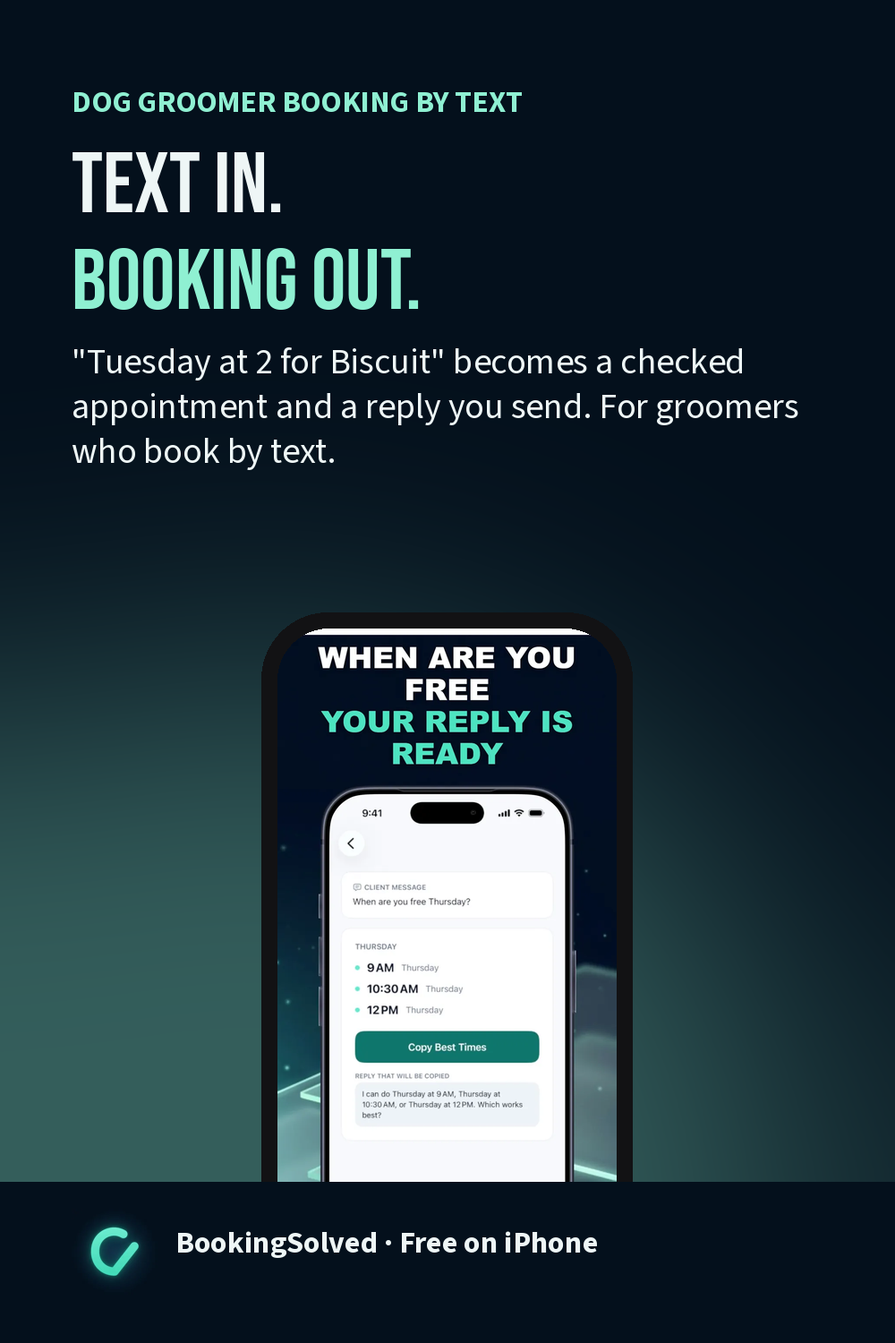
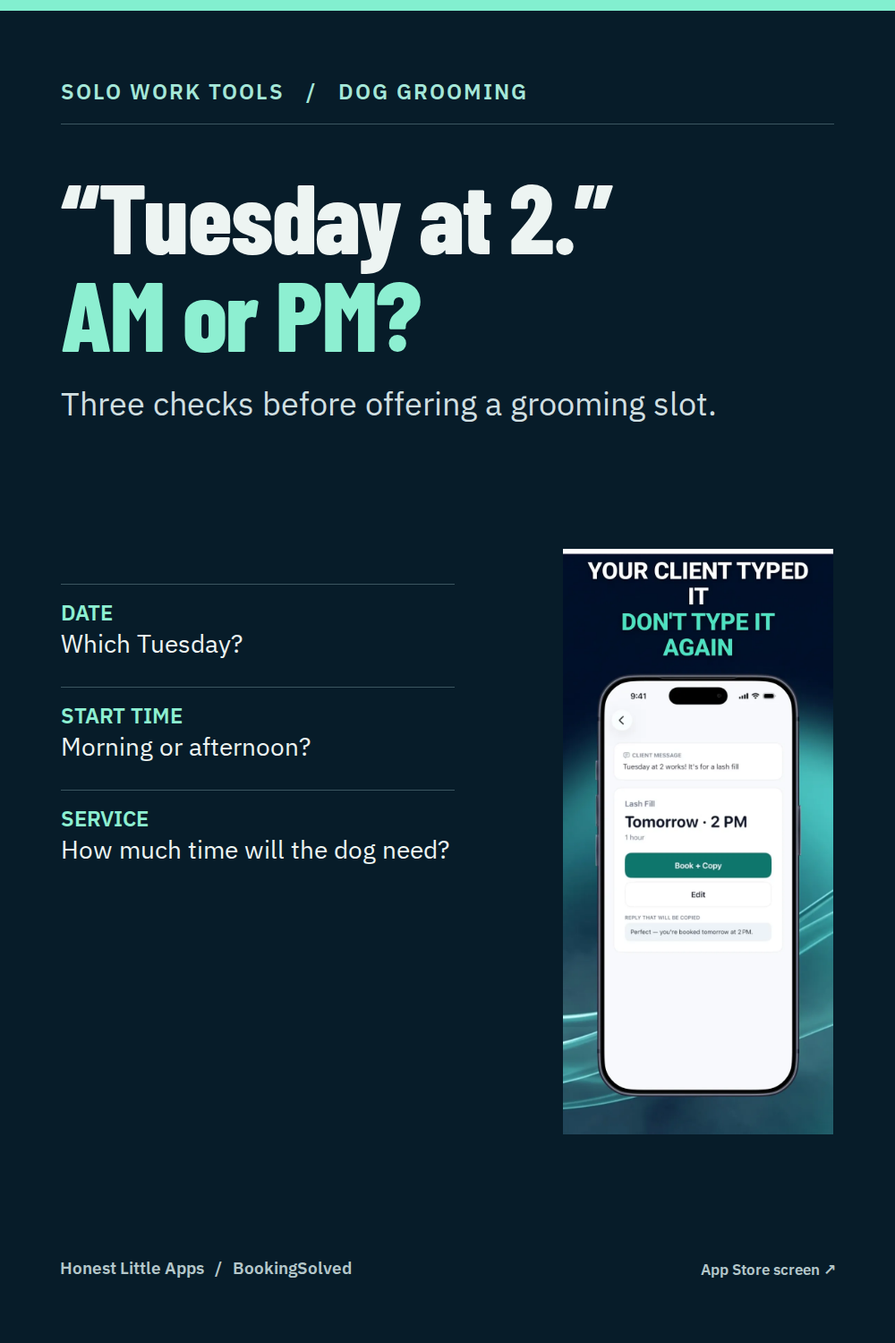
Clarify ambiguous grooming appointment texts before a calendar offer

diff --git a/src/bookingsolved/dog-groomer-booking-by-text/index.html b/src/bookingsolved/dog-groomer-booking-by-text/index.html
@@ -3,26 +3,27 @@
 <head>
 <meta charset="utf-8">
 <meta name="viewport" content="width=device-width,initial-scale=1">
-<title>Dog Groomer Booking by Text: 7 Messages, No Double-Bookings</title>
-<meta name="description" content="For the mobile dog groomer whose clients book by text and always will. A week of real-shaped messages, what each becomes, and a toy parser to try.">
+<title>Dog Grooming Booking Texts: Check 7 Appointment Requests</title>
+<meta name="description" content="Practice with seven dog grooming texts. Spot an unclear time, service or date and draft a follow-up before offering a calendar slot.">
 <link rel="canonical" href="https://udrwu9c0tjuedqy2.github.io/hla-work/bookingsolved/dog-groomer-booking-by-text/">
 <meta name="robots" content="index,follow,max-image-preview:large">
 <meta property="og:type" content="article">
-<meta property="og:title" content="Dog Groomer Booking by Text: 7 Messages, No Double-Bookings">
-<meta property="og:description" content="For the mobile dog groomer whose clients book by text and always will. A week of real-shaped messages, what each becomes, and a toy parser to try.">
+<meta property="og:title" content="Dog Grooming Booking Texts: Check 7 Appointment Requests">
+<meta property="og:description" content="Practice with seven dog grooming texts. Spot an unclear time, service or date and draft a follow-up before offering a calendar slot.">
 <meta property="og:url" content="https://udrwu9c0tjuedqy2.github.io/hla-work/bookingsolved/dog-groomer-booking-by-text/">
 <meta property="og:image" content="https://udrwu9c0tjuedqy2.github.io/hla-work/bookingsolved/dog-groomer-booking-by-text/og.png">
+<meta property="og:image:alt" content="A dog grooming text asks for Tuesday at 2. A follow-up asks AM or PM alongside an official BookingSolved screen.">
 <meta property="og:image:width" content="1200"><meta property="og:image:height" content="630">
 <meta property="og:site_name" content="Solo Work Tools">
 <meta name="twitter:card" content="summary_large_image">
-<meta name="twitter:title" content="Dog Groomer Booking by Text: 7 Messages, No Double-Bookings">
-<meta name="twitter:description" content="For the mobile dog groomer whose clients book by text and always will. A week of real-shaped messages, what each becomes, and a toy parser to try.">
+<meta name="twitter:title" content="Dog Grooming Booking Texts: Check 7 Appointment Requests">
+<meta name="twitter:description" content="Practice with seven dog grooming texts. Spot an unclear time, service or date and draft a follow-up before offering a calendar slot.">
 <meta name="twitter:image" content="https://udrwu9c0tjuedqy2.github.io/hla-work/bookingsolved/dog-groomer-booking-by-text/og.png">
 <link rel="icon" href="/favicon.svg" type="image/svg+xml">
 <link rel="alternate" type="application/atom+xml" title="Solo Work Tools" href="/feed.xml">
-<script type="application/ld+json">{"@context": "https://schema.org", "@type": "BreadcrumbList", "itemListElement": [{"@type": "ListItem", "position": 1, "name": "Solo Work Tools", "item": "https://udrwu9c0tjuedqy2.github.io/hla-work/"}, {"@type": "ListItem", "position": 2, "name": "BookingSolved: Client Booking", "item": "https://udrwu9c0tjuedqy2.github.io/hla-work/bookingsolved/"}, {"@type": "ListItem", "position": 3, "name": "Dog groomer booking by text, without a portal", "item": "https://udrwu9c0tjuedqy2.github.io/hla-work/bookingsolved/dog-groomer-booking-by-text/"}]}</script>
-<script type="application/ld+json">{"@context": "https://schema.org", "@type": "FAQPage", "mainEntity": [{"@type": "Question", "name": "Do I need a booking portal for a dog grooming business?", "acceptedAnswer": {"@type": "Answer", "text": "Not if your clients text you and keep texting you, which is most of them. A portal is one more place a booking can live. BookingSolved takes the other route: the client keeps texting, you keep Apple Calendar, and the app turns the message into a checked appointment and a reply you send yourself."}}, {"@type": "Question", "name": "Does it read my messages?", "acceptedAnswer": {"@type": "Answer", "text": "Only what you hand it. Paste the text, choose a screenshot, or use the Share Sheet; the listing says it never reads conversations in the background and never contacts clients. There is no connected inbox."}}, {"@type": "Question", "name": "What about repeat dogs and \"the usual\"?", "acceptedAnswer": {"@type": "Answer", "text": "Service presets hold the name, duration and prep or travel buffer for each service; there are starter lists for groomers among others, all editable. \"The usual\" with no service named is flagged for you to pick, because guessing a two-hour full groom when they meant a bath is how afternoons collapse."}}, {"@type": "Question", "name": "Can it handle two dogs in one slot?", "acceptedAnswer": {"@type": "Answer", "text": "It books the slot and the service you choose. If two dogs mean a longer slot, set a service preset for that (Two-dog groom, 2.5 h) rather than hoping the buffer absorbs it."}}, {"@type": "Question", "name": "Does it take deposits or payments?", "acceptedAnswer": {"@type": "Answer", "text": "No. No prices are stored and no money moves. If you take deposits, that stays wherever you take them now."}}, {"@type": "Question", "name": "Is it free?", "acceptedAnswer": {"@type": "Answer", "text": "BookingSolved is free to download. We describe only what the App Store listing and screenshots show; read the listing for anything paid before relying on this page."}}]}</script>
-<script type="application/ld+json">{"@context": "https://schema.org", "@type": "SoftwareApplication", "name": "BookingSolved: Client Booking", "operatingSystem": "iOS", "applicationCategory": "BusinessApplication", "offers": {"@type": "Offer", "price": "0", "priceCurrency": "USD"}, "downloadUrl": "https://apps.apple.com/app/id6800187784", "url": "https://udrwu9c0tjuedqy2.github.io/hla-work/bookingsolved/", "image": "https://udrwu9c0tjuedqy2.github.io/hla-work/assets/bookingsolved/icon-512.webp", "publisher": {"@type": "Organization", "name": "Honest Little Apps"}}</script>
+<script type="application/ld+json">{"@context": "https://schema.org", "@type": "BreadcrumbList", "itemListElement": [{"@type": "ListItem", "position": 1, "name": "Solo Work Tools", "item": "https://udrwu9c0tjuedqy2.github.io/hla-work/"}, {"@type": "ListItem", "position": 2, "name": "Dog grooming booking texts", "item": "https://udrwu9c0tjuedqy2.github.io/hla-work/bookingsolved/dog-groomer-booking-by-text/"}]}</script>
+<script type="application/ld+json">{"@context": "https://schema.org", "@type": "FAQPage", "mainEntity": [{"@type": "Question", "name": "Do I need a booking portal for a dog grooming business?", "acceptedAnswer": {"@type": "Answer", "text": "A solo groomer can keep taking requests by text. BookingSolved prepares a calendar proposal and a reply the groomer reviews and sends."}}, {"@type": "Question", "name": "Does BookingSolved read my messages?", "acceptedAnswer": {"@type": "Answer", "text": "It processes only a request you paste, a screenshot you choose, or something you share with it. You send each client reply yourself."}}, {"@type": "Question", "name": "How should I handle “the usual”?", "acceptedAnswer": {"@type": "Answer", "text": "Ask which service the client wants. BookingSolved lets a groomer set the service name, duration, and prep or travel buffer."}}, {"@type": "Question", "name": "Can two dogs fit in one slot?", "acceptedAnswer": {"@type": "Answer", "text": "Add the service time for both dogs and the cleanup or travel time. Check the whole window before offering the appointment."}}, {"@type": "Question", "name": "Does BookingSolved take deposits?", "acceptedAnswer": {"@type": "Answer", "text": "Payments remain with your existing service. BookingSolved handles the calendar request and reply."}}, {"@type": "Question", "name": "What is free?", "acceptedAnswer": {"@type": "Answer", "text": "The first three completed actions are free. BookingSolved Pro unlocks unlimited bookings, reschedules and cancellations. Undo is always free."}}]}</script>
+<script type="application/ld+json">{"@context": "https://schema.org", "@type": "SoftwareApplication", "name": "BookingSolved: Client Booking", "operatingSystem": "iOS", "applicationCategory": "BusinessApplication", "offers": {"@type": "Offer", "price": "0", "priceCurrency": "USD"}, "downloadUrl": "https://apps.apple.com/app/id6800187784", "url": "https://apps.apple.com/us/app/bookingsolved-client-booking/id6800187784", "image": "https://udrwu9c0tjuedqy2.github.io/hla-work/assets/bookingsolved/icon-512.webp", "publisher": {"@type": "Organization", "name": "Honest Little Apps"}}</script>
 <link rel="preload" href="/assets/fonts/bebas-neue-latin-400-normal.woff2" as="font" type="font/woff2" crossorigin>
 <meta name="apple-itunes-app" content="app-id=6800187784">
 <style>
@@ -45,12 +46,12 @@ h2{font-size:clamp(1.9rem,7vw,2.8rem);margin-top:1.4em}h3{font-size:1.5rem}
 .upd{font-size:.85rem;color:var(--mute)}.hero .upd{color:#d5e6e6}
 /* duotone shots */
 .shots{display:grid;grid-template-columns:1fr 1fr;gap:12px;margin:14px 0}@media(min-width:620px){.shots{grid-template-columns:repeat(3,1fr)}}
-.shots figure{margin:0;overflow:hidden}.shots .duo{border-radius:16px;background:var(--mint);overflow:hidden}.shots img{width:100%;height:auto;display:block;filter:grayscale(1) contrast(1.1);mix-blend-mode:multiply;opacity:.95}.shots figcaption{font-size:.85rem;color:var(--mute);margin-top:6px}
+.shots figure{margin:0;overflow:hidden}.shots .duo{border-radius:16px;background:var(--mint);overflow:hidden}.shots img{width:100%;height:auto;display:block;object-fit:contain}.shots figcaption{font-size:.85rem;color:var(--mute);margin-top:6px}
 /* thread */
 .thread{display:grid;gap:10px;margin:12px 0}
 .bub{display:block;width:100%;text-align:left;background:#f6f3ea;color:#1a2a33;border:0;border-radius:18px 18px 18px 6px;padding:10px 14px;font:inherit;cursor:pointer}.bub .who{display:block;font-size:.75rem;color:#6b7a80;font-weight:600}.bub .txt{display:block;font-size:1.02rem}.bub .hint{display:block;font-size:.75rem;color:var(--teal);margin-top:4px;font-weight:600}
 .bub[aria-expanded=true]{outline:2px solid var(--mint)}
-.rev{background:var(--card);border:1px solid var(--line);border-radius:18px 18px 6px 18px;padding:10px 14px;margin-left:12%}.rev p{margin:0;font-size:.98rem}.rev:before{content:"BookingSolved would prepare";display:block;font-size:.72rem;color:var(--mint);margin-bottom:2px}
+.rev{background:var(--card);border:1px solid var(--line);border-radius:18px 18px 6px 18px;padding:10px 14px;margin-left:12%}.rev p{margin:0;font-size:.98rem}.rev:before{content:"What to check";display:block;font-size:.72rem;color:var(--mint);margin-bottom:2px}
 /* demo */
 .demo{background:var(--card);border:1px solid var(--line);border-radius:18px;padding:16px;margin:14px 0}.demo h3{margin-bottom:6px}.demo p{margin:0 0 10px;font-size:.95rem;color:var(--mute)}
 .demo input{width:100%;background:#061520;color:var(--ink);border:1px solid var(--line);border-radius:12px;padding:12px;font:inherit;font-size:1rem}
@@ -61,6 +62,7 @@ h2{font-size:clamp(1.9rem,7vw,2.8rem);margin-top:1.4em}h3{font-size:1.5rem}
 details{border-top:1px solid var(--line);padding:10px 0}summary{cursor:pointer;font-weight:600;font-size:1.05rem}details p{margin:8px 0 0;color:#cfe0e0}
 .cta{display:inline-block;background:var(--mint);color:var(--navy);text-decoration:none;font:400 1.4rem 'Bebas Neue',Impact,sans-serif;letter-spacing:.04em;padding:12px 24px;border-radius:999px;margin:8px 0}
 .end{background:var(--card);border-radius:18px;padding:22px 18px;margin:28px 0 18px;text-align:center}.end .hla-badge{display:inline-block;margin-top:8px}
+.demo label{display:block;font-weight:600;margin:10px 0 4px}.samples{display:flex;flex-wrap:wrap;gap:8px;margin:8px 0}.samples button{background:#163645;color:var(--ink);border:1px solid #527786;border-radius:8px;padding:9px 11px;min-height:44px;font:inherit;font-size:.93rem;cursor:pointer}.demo h2{margin:.2em 0 .5em}.store-text{font-size:1rem;font-weight:600;text-decoration:underline;text-underline-offset:.18em;display:inline-block;padding:10px 0}.badge-row{align-items:baseline}.badge-row small{display:block;width:100%}.parsed b{overflow-wrap:anywhere}.demo .draft{color:var(--ink);min-height:3em}.case-label{font-weight:600;color:var(--mint)}.demo h3{margin-top:1em}.demo :focus-visible{outline:3px solid var(--mint);outline-offset:3px}
 .limits{font-size:.95rem;color:var(--mute)}
 </style>
 </head>
@@ -70,73 +72,135 @@ details{border-top:1px solid var(--line);padding:10px 0}summary{cursor:pointer;f
 <svg class="net" viewBox="0 0 400 300" preserveAspectRatio="none" aria-hidden="true"><g stroke="#8ff0d2" stroke-width=".7" fill="none"><path d="M20 40 L140 90 L260 30 L380 110 M140 90 L90 220 L260 30 M260 30 L330 240 L90 220"/></g><g fill="#8ff0d2"><circle cx="20" cy="40" r="2"/><circle cx="140" cy="90" r="2.5"/><circle cx="260" cy="30" r="2"/><circle cx="380" cy="110" r="2"/><circle cx="90" cy="220" r="2.5"/><circle cx="330" cy="240" r="2"/></g></svg>
 <nav class="top"><a href="/">Solo Work Tools</a><a href="/about/">About</a></nav>
 <p class="upd">Updated November 2026 · For mobile and home groomers who book by text</p>
-<h1>7 messages.<span class="l2">Zero double-bookings.</span></h1>
-<p class="sub">Dog groomer booking by text is how it is and how it will stay. This is for the groomer who does not want a portal, just a calendar that gets checked before every reply.</p>
-<div class="badge-row"><a class="hla-badge" href="https://apps.apple.com/app/id6800187784?ct=work-dog-groomer-booking-by-te&mt=8" rel="noopener" aria-label="Download on the App Store"><img src="https://toolbox.marketingtools.apple.com/api/v2/badges/download-on-the-app-store/white/en-us?size=250x83&releaseDate=1276560000" alt="Download on the App Store" width="150" height="50" loading="eager" decoding="async"></a><small>BookingSolved · Free on iPhone</small></div>
+<h1>“Tuesday at 2.”<span class="l2">AM or PM?</span></h1>
+<p class="sub">A client texts about a groom. Practice spotting what to clarify before offering a slot, then try seven fictional client requests.</p>
+<div class="badge-row"><a class="cta" href="#request-lab">Check a sample text</a><a class="store-text" href="https://apps.apple.com/app/id6800187784?ct=work-dog-groomer-booking-by-te&mt=8" rel="noopener">BookingSolved on the App Store ↗</a><small>BookingSolved · First 3 completed actions free</small></div>
 </header>
+<section aria-labelledby="request-lab" class="demo">
+<h2 id="request-lab">Check a grooming request</h2>
+<p>Try a fictional text. The highlighter looks for familiar date, time and service wording. Review its clues and use the follow-up as a starting point. This browser exercise has no calendar connection and sends nothing.</p>
+<div class="samples" aria-label="Example messages"><button type="button" data-example="Can Biscuit come Tuesday at 2 for a full groom?">Bare time</button><button type="button" data-example="Could we do next Friday at 2 pm for a bath?">Which Friday?</button><button type="button" data-example="Can we move Mochi’s bath an hour later?">Move a visit</button></div>
+<label for="msg">Sample booking text</label>
+<input id="msg" type="text" value="Can Biscuit come Tuesday at 2 for a full groom?" maxlength="500" autocomplete="off" spellcheck="false">
+<div class="parsed"><div><small>Date wording</small><b id="pd">—</b></div><div><small>Time wording</small><b id="pt">—</b></div><div><small>Request wording</small><b id="pn">—</b></div><div><small>Service mentioned</small><b id="ps">—</b></div></div>
+<h3>Suggested follow-up</h3><div class="draft" id="pdraft" aria-live="polite"></div>
+<noscript><p>For “Tuesday at 2,” first ask which calendar date and whether the client means AM or PM. Check the service length, cleanup time and calendar before offering a slot.</p></noscript>
+</section>
 
 <h2>The real screens</h2>
 <div class="shots">
-<figure><div class="duo"><img class="" src="/assets/bookingsolved/screen-1-390.webp" srcset="/assets/bookingsolved/screen-1-390.webp 390w, /assets/bookingsolved/screen-1-780.webp 780w" sizes="(max-width:480px) 70vw, 300px" width="390" height="844" alt="BookingSolved turning a client message into a booking with Book and Copy" fetchpriority="high" decoding="async"></div><figcaption>The client typed it. You do not type it again.</figcaption></figure>
-<figure><div class="duo"><img class="" src="/assets/bookingsolved/screen-2-390.webp" srcset="/assets/bookingsolved/screen-2-390.webp 390w, /assets/bookingsolved/screen-2-780.webp 780w" sizes="(max-width:480px) 70vw, 300px" width="390" height="844" alt="BookingSolved open times for Thursday with Copy Best Times" fetchpriority="high" decoding="async"></div><figcaption>"When are you free?" gets three real slots.</figcaption></figure>
-<figure><div class="duo"><img class="" src="/assets/bookingsolved/screen-4-390.webp" srcset="/assets/bookingsolved/screen-4-390.webp 390w, /assets/bookingsolved/screen-4-780.webp 780w" sizes="(max-width:480px) 70vw, 300px" width="390" height="844" alt="BookingSolved booked confirmation with Undo" fetchpriority="high" decoding="async"></div><figcaption>Booked in Apple Calendar. Undo in one tap.</figcaption></figure>
+<figure><div class="duo"><img class="" src="/assets/bookingsolved/screen-1-390.webp" srcset="/assets/bookingsolved/screen-1-390.webp 390w, /assets/bookingsolved/screen-1-780.webp 780w" sizes="(max-width:480px) 70vw, 300px" width="390" height="844" alt="BookingSolved turning a client message into a booking with Book and Copy" fetchpriority="high" decoding="async"></div><figcaption>A shared request becomes a proposal to review.</figcaption></figure>
+<figure><div class="duo"><img class="" src="/assets/bookingsolved/screen-2-390.webp" srcset="/assets/bookingsolved/screen-2-390.webp 390w, /assets/bookingsolved/screen-2-780.webp 780w" sizes="(max-width:480px) 70vw, 300px" width="390" height="844" alt="BookingSolved open times for Thursday with Copy Best Times" fetchpriority="high" decoding="async"></div><figcaption>Open-time suggestions use Apple Calendar and the service duration.</figcaption></figure>
+<figure><div class="duo"><img class="" src="/assets/bookingsolved/screen-4-390.webp" srcset="/assets/bookingsolved/screen-4-390.webp 390w, /assets/bookingsolved/screen-4-780.webp 780w" sizes="(max-width:480px) 70vw, 300px" width="390" height="844" alt="BookingSolved booked confirmation with Undo" fetchpriority="high" decoding="async"></div><figcaption>Review the calendar change and the Undo option.</figcaption></figure>
 </div>
 
 <h2>Honest limits</h2>
-<p class="limits">BookingSolved is a one-person tool built on Apple Calendar; it does not do Google Calendar, a team schedule, deposits, or a public booking link. It cannot read "the usual" without you, and it will not guess "next Friday". It never sends a message; every reply is yours to edit and send from the app the client used. Apple's guide to <a href="https://support.apple.com/guide/iphone/iph3d110f84/ios" rel="noopener">creating and editing events in Calendar</a> is where the appointments end up, and the <a href="https://support.apple.com/guide/iphone/welcome/ios" rel="noopener">iPhone User Guide</a> covers the Share Sheet the app uses to receive a message. We make the app, so read the listing yourself.</p>
+<p class="limits">BookingSolved uses requests the groomer chooses to share and checks Apple Calendar before proposing a change. The groomer reviews the event and sends any reply. Service durations and travel or cleanup buffers can be set in the app. <a href="https://support.apple.com/guide/iphone/iph3d110f84/ios" rel="noopener">Apple’s guide to creating and editing calendar events</a> shows where the approved appointment appears.</p>
 
 <h2>Questions groomers ask</h2>
-<details><summary>Do I need a booking portal for a dog grooming business?</summary><p>Not if your clients text you and keep texting you, which is most of them. A portal is one more place a booking can live. BookingSolved takes the other route: the client keeps texting, you keep Apple Calendar, and the app turns the message into a checked appointment and a reply you send yourself.</p></details><details><summary>Does it read my messages?</summary><p>Only what you hand it. Paste the text, choose a screenshot, or use the Share Sheet; the listing says it never reads conversations in the background and never contacts clients. There is no connected inbox.</p></details><details><summary>What about repeat dogs and &quot;the usual&quot;?</summary><p>Service presets hold the name, duration and prep or travel buffer for each service; there are starter lists for groomers among others, all editable. &quot;The usual&quot; with no service named is flagged for you to pick, because guessing a two-hour full groom when they meant a bath is how afternoons collapse.</p></details><details><summary>Can it handle two dogs in one slot?</summary><p>It books the slot and the service you choose. If two dogs mean a longer slot, set a service preset for that (Two-dog groom, 2.5 h) rather than hoping the buffer absorbs it.</p></details><details><summary>Does it take deposits or payments?</summary><p>No. No prices are stored and no money moves. If you take deposits, that stays wherever you take them now.</p></details><details><summary>Is it free?</summary><p>BookingSolved is free to download. We describe only what the App Store listing and screenshots show; read the listing for anything paid before relying on this page.</p></details>
+<details><summary>Do I need a booking portal for a dog grooming business?</summary><p>A solo groomer can keep taking requests by text. BookingSolved prepares a calendar proposal and a reply the groomer reviews and sends.</p></details><details><summary>Does BookingSolved read my messages?</summary><p>It processes only a request you paste, a screenshot you choose, or something you share with it. You send each client reply yourself.</p></details><details><summary>How should I handle “the usual”?</summary><p>Ask which service the client wants. BookingSolved lets a groomer set the service name, duration, and prep or travel buffer.</p></details><details><summary>Can two dogs fit in one slot?</summary><p>Add the service time for both dogs and the cleanup or travel time. Check the whole window before offering the appointment.</p></details><details><summary>Does BookingSolved take deposits?</summary><p>Payments remain with your existing service. BookingSolved handles the calendar request and reply.</p></details><details><summary>What is free?</summary><p>The first three completed actions are free. BookingSolved Pro unlocks unlimited bookings, reschedules and cancellations. Undo is always free.</p></details>
 
-<h2>A week of texts, tap each one</h2>
-<p class="limits">Composite messages from groomers we have talked with; the names and dogs are made up.</p>
-<div class="thread" id="thread"><div class="msg"><button type="button" class="bub" aria-expanded="false"><span class="who">Jen (Biscuit, cockapoo)</span><span class="txt">Hi! Can Biscuit come Tuesday at 2 for a full groom?</span><span class="hint">Tap: what it becomes</span></button><div class="rev" hidden><p>A booking proposal: Tuesday 2:00 pm, Full groom, your set duration and buffer, checked against Apple Calendar. If Tuesday 2 is free, the reply is ready: &quot;Tuesday at 2 works for Biscuit, see you then.&quot;</p></div></div><div class="msg"><button type="button" class="bub" aria-expanded="false"><span class="who">Mark (Bruno, lab)</span><span class="txt">When are you free next week for a bath and nails?</span><span class="hint">Tap: what it becomes</span></button><div class="rev" hidden><p>Open times: a few slots inside your business hours, around existing appointments, using the Bath &amp; nails duration and buffer. Copy the best three into the reply.</p></div></div><div class="msg"><button type="button" class="bub" aria-expanded="false"><span class="who">Priya (Mochi)</span><span class="txt">Can we move Mochi an hour later?</span><span class="hint">Tap: what it becomes</span></button><div class="rev" hidden><p>A reschedule: it finds Mochi&#x27;s existing appointment, shows a before-and-after preview, and moves it only when you approve. Undo checks nothing changed first.</p></div></div><div class="msg"><button type="button" class="bub" aria-expanded="false"><span class="who">New number</span><span class="txt">do u do cats</span><span class="hint">Tap: what it becomes</span></button><div class="rev" hidden><p>Flagged, not guessed. There is no date, time or service here. You answer this one yourself; the app only prepares what it can actually find.</p></div></div><div class="msg"><button type="button" class="bub" aria-expanded="false"><span class="who">Jen (Biscuit)</span><span class="txt">Actually could we do next Friday instead?</span><span class="hint">Tap: what it becomes</span></button><div class="rev" hidden><p>&quot;Next Friday&quot; is flagged as unclear rather than guessed; the app asks you which Friday. Then the reschedule preview, then your approval.</p></div></div><div class="msg"><button type="button" class="bub" aria-expanded="false"><span class="who">Sam (Daisy &amp; Dolly)</span><span class="txt">Both girls Thursday morning please, usual</span><span class="hint">Tap: what it becomes</span></button><div class="rev" hidden><p>Two dogs, one slot: the service preset handles duration; &quot;usual&quot; is flagged for you to confirm which service. The reply draft waits for your edit.</p></div></div><div class="msg"><button type="button" class="bub" aria-expanded="false"><span class="who">Mark (Bruno)</span><span class="txt">Sorry need to cancel Tuesday</span><span class="hint">Tap: what it becomes</span></button><div class="rev" hidden><p>A cancellation: shows the exact event before anything is removed. Nothing changes in Calendar until you tap approve, and the reply is yours to send.</p></div></div></div>
 
-<h2>Try the shape of it</h2>
-<div class="demo">
-<h3>Type a booking text</h3>
-<p>A toy version, in your browser, nothing sent anywhere. It finds a day, a time and a dog's name if there is one, and flags what is missing. The app does the real version against your calendar and your service presets.</p>
-<input id="msg" type="text" value="Can Biscuit come Tuesday at 2 for a full groom?" aria-label="Booking message">
-<div class="parsed"><div><small>Day</small><b id="pd">—</b></div><div><small>Time</small><b id="pt">—</b></div><div><small>Dog</small><b id="pn">—</b></div><div><small>Service</small><b id="ps">—</b></div></div>
-<div class="draft" id="pdraft"></div>
-</div>
+<h2>Seven grooming texts to practice with</h2>
+<p class="limits">These seven fictional examples illustrate the decisions a solo groomer might face.</p>
+<div class="thread" id="thread"><div class="msg"><button type="button" class="bub" aria-expanded="false"><span class="who">Jen (Biscuit, cockapoo)</span><span class="txt">Hi! Can Biscuit come Tuesday at 2 for a full groom?</span><span class="hint">Reveal the next step</span></button><div class="rev" hidden><p>The request mentions a Tuesday, 2 o’clock and a full groom. Ask which Tuesday and whether 2 means AM or PM. Once the client clarifies, check the calendar for the full service and buffer before offering the slot.</p></div></div><div class="msg"><button type="button" class="bub" aria-expanded="false"><span class="who">Mark (Bruno, lab)</span><span class="txt">When are you free next week for a bath and nails?</span><span class="hint">Reveal the next step</span></button><div class="rev" hidden><p>Open times: a few slots inside your business hours, around existing appointments, using the Bath &amp; nails duration and buffer. Copy the best three into the reply.</p></div></div><div class="msg"><button type="button" class="bub" aria-expanded="false"><span class="who">Priya (Mochi)</span><span class="txt">Can we move Mochi an hour later?</span><span class="hint">Reveal the next step</span></button><div class="rev" hidden><p>A reschedule: it finds Mochi&#x27;s existing appointment, shows a before-and-after preview, and moves it only when you approve. Undo checks nothing changed first.</p></div></div><div class="msg"><button type="button" class="bub" aria-expanded="false"><span class="who">New number</span><span class="txt">do u do cats</span><span class="hint">Reveal the next step</span></button><div class="rev" hidden><p>Flagged, not guessed. There is no date, time or service here. You answer this one yourself; the app only prepares what it can actually find.</p></div></div><div class="msg"><button type="button" class="bub" aria-expanded="false"><span class="who">Jen (Biscuit)</span><span class="txt">Actually could we do next Friday instead?</span><span class="hint">Reveal the next step</span></button><div class="rev" hidden><p>&quot;Next Friday&quot; is flagged as unclear rather than guessed; the app asks you which Friday. Then the reschedule preview, then your approval.</p></div></div><div class="msg"><button type="button" class="bub" aria-expanded="false"><span class="who">Sam (Daisy &amp; Dolly)</span><span class="txt">Both girls Thursday morning please, usual</span><span class="hint">Reveal the next step</span></button><div class="rev" hidden><p>Ask what each dog needs, the exact date and the start time. Use the combined service and cleanup time to check whether both dogs fit.</p></div></div><div class="msg"><button type="button" class="bub" aria-expanded="false"><span class="who">Mark (Bruno)</span><span class="txt">Sorry need to cancel Tuesday</span><span class="hint">Reveal the next step</span></button><div class="rev" hidden><p>A cancellation: shows the exact event before anything is removed. Nothing changes in Calendar until you tap approve, and the reply is yours to send.</p></div></div></div>
+
+
 
 <div class="strip">
 <div><h3>The notebook</h3><p>Every text copied into a diary at night. Works until the night you do not, and the Tuesday that has two cockapoos at 2.</p></div>
 <div><h3>The portal</h3><p>Clients book themselves. The regulars text anyway, so now there are two places a booking can live.</p></div>
-<div class="ours"><h3>Check before you reply</h3><p>Paste the text, see the proposal checked against Calendar, approve, copy the reply. Clients keep texting; you stop double-booking.</p></div>
+<div class="ours"><h3>Check before you reply</h3><p>Paste the text, see the proposal checked against Calendar, approve, copy the reply. Review the date, duration and availability before approving the change.</p></div>
 </div>
-<a class="cta" href="https://apps.apple.com/app/id6800187784?ct=work-dog-groomer-booking-by-te&mt=8" rel="noopener">Play free on iPhone</a>
+<a class="cta" href="https://apps.apple.com/app/id6800187784?ct=work-dog-groomer-booking-by-te&mt=8" rel="noopener">View BookingSolved on the App Store</a>
 
 <div class="end">
-<h2>Keep texting. Stop double-booking.</h2>
-<p>Free on iPhone. Apple Calendar stays yours.</p>
-<a class="hla-badge" href="https://apps.apple.com/app/id6800187784?ct=work-dog-groomer-booking-by-te&mt=8" rel="noopener" aria-label="Download on the App Store"><img src="https://toolbox.marketingtools.apple.com/api/v2/badges/download-on-the-app-store/white/en-us?size=250x83&releaseDate=1276560000" alt="Download on the App Store" width="150" height="50" loading="eager" decoding="async"></a>
+<h2>Bring a request to Apple Calendar</h2>
+<p>The first three completed actions are free. BookingSolved Pro unlocks unlimited bookings, reschedules and cancellations. Undo is always free.</p>
+<a class="store-text" href="https://apps.apple.com/app/id6800187784?ct=work-dog-groomer-booking-by-te&mt=8" rel="noopener">BookingSolved on the App Store ↗</a>
 </div>
 
+<section><h2>Field worksheet</h2><p><a href="./route-insert.html">Mobile grooming route insertion checker</a> — Check whether a new visit leaves enough driving and service time between existing bookings.</p></section>
 <!--HLA:RELATED:4-->
 </div>
-<footer class="hla-footer"><p><strong>Honest Little Apps</strong> makes small iPhone apps and writes these pages by hand. No cookies, no email capture. <a href="/about/">About</a> · <a href="/privacy/">Privacy</a> · <a href="/">Solo Work Tools</a></p><p>Apple, the Apple logo, iPhone and App Store are trademarks of Apple Inc. · © <!--HLA:YEAR--> Honest Little Apps</p></footer>
+<footer class="hla-footer"><p><strong>Honest Little Apps</strong> publishes BookingSolved and this practice guide. <a href="/about/">About</a> · <a href="/privacy/">Privacy</a> · <a href="/">Solo Work Tools</a></p><p>Apple, the Apple logo, iPhone and App Store are trademarks of Apple Inc. · © <!--HLA:YEAR--> Honest Little Apps</p></footer>
 <script>
-(function(){
-document.getElementById('thread').addEventListener('click',function(e){var b=e.target.closest('.bub');if(!b)return;var o=b.getAttribute('aria-expanded')==='true';b.setAttribute('aria-expanded',o?'false':'true');b.nextElementSibling.hidden=o;});
-var m=document.getElementById('msg'),pd=document.getElementById('pd'),pt=document.getElementById('pt'),pn=document.getElementById('pn'),ps=document.getElementById('ps'),dr=document.getElementById('pdraft');
-var DAYS=['monday','tuesday','wednesday','thursday','friday','saturday','sunday'],SV=['full groom','bath and nails','bath & nails','bath','nails','tidy','puppy groom','deshed','de-shed'];
-function parse(){var s=m.value,l=s.toLowerCase(),day=null,time=null,dog=null,svc=null,flags=[];
- var vague=/\b(next|sometime|soon|asap|whenever|usual)\b/.test(l);
- DAYS.forEach(function(d){if(l.indexOf(d)>-1||l.indexOf(d.slice(0,3)+' ')>-1)day=d.charAt(0).toUpperCase()+d.slice(1);});
- if(/\btomorrow\b/.test(l))day='Tomorrow';
- var t=l.match(/\b(at\s*)?(\d{1,2})(?::(\d{2}))?\s*(am|pm)?\b/);if(t&&(t[1]||t[4]||t[3])){time=t[2]+(t[3]?':'+t[3]:'')+(t[4]?' '+t[4]:(+t[2]<8?' pm':''));}
- var n=s.match(/\b(?:can|could|for|bring|book)\s+([A-Za-z][a-z]+)\b/i);var STOP=['come','we','you','my','the','a','an','our','tomorrow','both','next','this'];if(n&&DAYS.indexOf(n[1].toLowerCase())<0&&STOP.indexOf(n[1].toLowerCase())<0)dog=n[1].charAt(0).toUpperCase()+n[1].slice(1);
- SV.forEach(function(x){if(l.indexOf(x)>-1&&!svc)svc=x;});
- pd.textContent=day||'—';pt.textContent=time||'—';pn.textContent=dog||'—';ps.textContent=svc||'—';
- if(/next\s+(mon|tue|wed|thu|fri|sat|sun)/.test(l)){pd.innerHTML='<span class=flag>flagged: which '+day+'?</span>';}
- if(!day)flags.push('no day');if(!time)flags.push('no time');if(!svc)flags.push('no service');
- if(flags.length){dr.textContent='Flagged, not guessed: '+flags.join(', ')+'. The app would ask you before preparing anything.';}
- else{dr.textContent='Reply draft: "'+day+' at '+time+' works'+(dog?' for '+dog:'')+', '+svc+'. See you then." Checked against your calendar first, in the real thing.';}
-}
-m.addEventListener('input',parse);parse();
+(() => {
+  const field = document.getElementById('msg');
+  const weekdays = /\b(?:mon(?:day)?|tue(?:s(?:day)?)?|wed(?:nesday)?|thu(?:rs(?:day)?)?|fri(?:day)?|sat(?:urday)?|sun(?:day)?|tomorrow|today)\b/gi;
+  const services = /\b(?:full groom|puppy groom|bath (?:and|&) nails|bath|nails|tidy|de-?shed)\b/gi;
+  const clock = /\b(?:at\s+\d{1,2}(?::\d{2})?(?:\s*[ap]m)?|\d{1,2}:\d{2}(?:\s*[ap]m)?|\d{1,2}\s*[ap]m)\b/gi;
+  const calendarDate = /\b\d{4}-\d{2}-\d{2}\b/g;
+
+  function display(id, value) {
+    document.getElementById(id).textContent = value || '—';
+  }
+
+  function exactISO(value) {
+    const parsed = new Date(value + 'T12:00:00Z');
+    return Number.isFinite(parsed.valueOf()) && parsed.toISOString().slice(0, 10) === value;
+  }
+
+  function clearTime(value) {
+    const match = value.replace(/^at\s+/i, '').match(/^(\d{1,2})(?::(\d{2}))?\s*([ap]m)?$/i);
+    if (!match) return false;
+    const hour = Number(match[1]);
+    const minute = Number(match[2] || 0);
+    if (minute > 59) return false;
+    if (match[3]) return hour >= 1 && hour <= 12;
+    return Boolean(match[2]) && (hour === 0 || (hour >= 13 && hour <= 23));
+  }
+
+  function review() {
+    const msg = field.value.trim();
+    const dateWords = msg.match(weekdays) || [];
+    const dates = msg.match(calendarDate) || [];
+    const times = msg.match(clock) || [];
+    const namedServices = msg.match(services) || [];
+    const dateParts = [...dateWords, ...dates];
+    const cancel = /\bcancel(?:lation|ling|ing)?\b/i.test(msg);
+    const move = /\b(?:move|reschedule|earlier|later)\b/i.test(msg);
+    const kind = cancel && move ? 'Change wording' : cancel ? 'Cancellation wording' : move ? 'Move wording' : 'Booking details';
+    display('pd', dateParts.join(' / '));
+    display('pt', times.join(' / '));
+    display('pn', msg && kind);
+    display('ps', namedServices.join(' / '));
+
+    if (!msg) {
+      display('pdraft', 'Type a fictional request or choose an example above.');
+      return;
+    }
+    if (cancel || move) {
+      const next = cancel && move ? 'Would you like to move or cancel it?' : cancel ? 'I’ll check the original booking before changing it.' : 'What new date and time would you prefer? I’ll check whether it fits.';
+      display('pdraft', 'Which existing appointment is this for? ' + next);
+      return;
+    }
+    const questions = [];
+    // An isolated ISO date can be identified without assigning a date to a relative weekday.
+    if (dates.length !== 1 || !exactISO(dates[0]) || dateWords.length || /\b(?:next|tomorrow|today)\b/i.test(msg)) questions.push('Which calendar date do you mean?');
+    if (times.length !== 1 || !clearTime(times[0]) || /\b(?:between|until|before|after|or)\b/i.test(msg)) questions.push('What start time should I check, including AM or PM?');
+    if (namedServices.length !== 1) questions.push('Which grooming service should I allow time for?');
+    const closing = 'I’ll check the calendar and service length before offering a slot.';
+    display('pdraft', [...questions, closing].join(' '));
+  }
+
+  document.getElementById('thread').addEventListener('click', event => {
+    const button = event.target.closest('.bub');
+    if (!button) return;
+    const open = button.getAttribute('aria-expanded') === 'true';
+    button.setAttribute('aria-expanded', String(!open));
+    button.nextElementSibling.hidden = open;
+  });
+  document.querySelector('.samples').addEventListener('click', event => {
+    const button = event.target.closest('[data-example]');
+    if (!button) return;
+    field.value = button.dataset.example;
+    review();
+  });
+  field.addEventListener('input', review);
+  review();
 })();
+
 </script>
-<section><h2>Field worksheet</h2><p><a href="./route-insert.html">Mobile grooming route insertion checker</a> — Check whether a new visit leaves enough driving and service time between existing bookings.</p></section></body>
+</body>
 </html>
